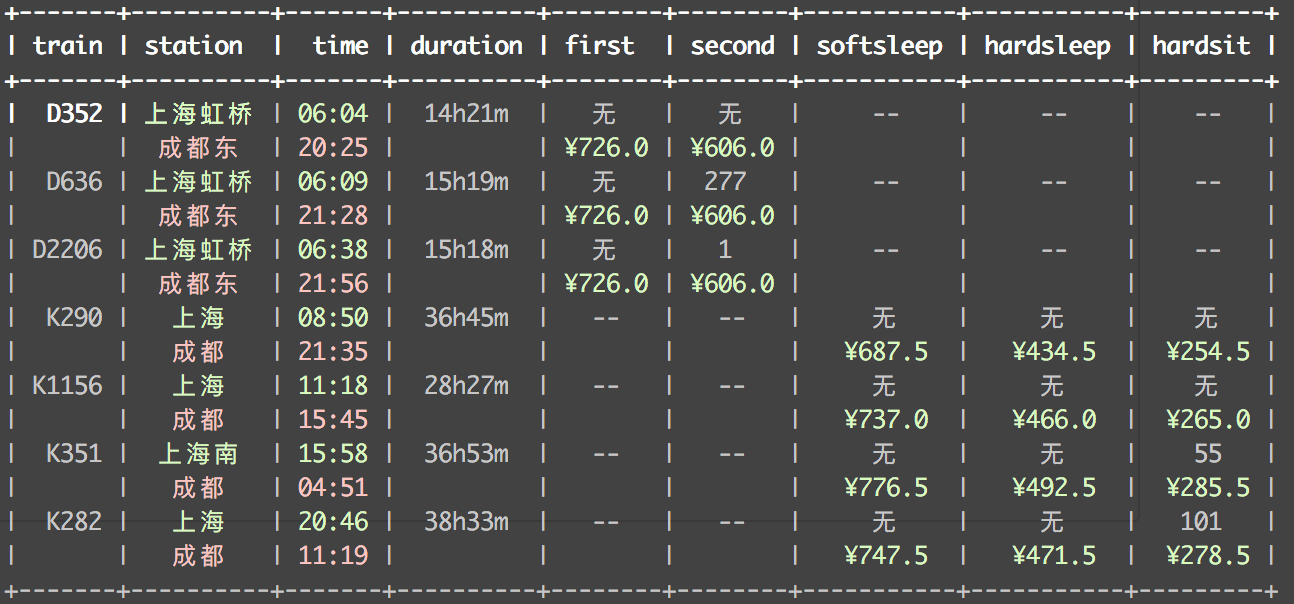
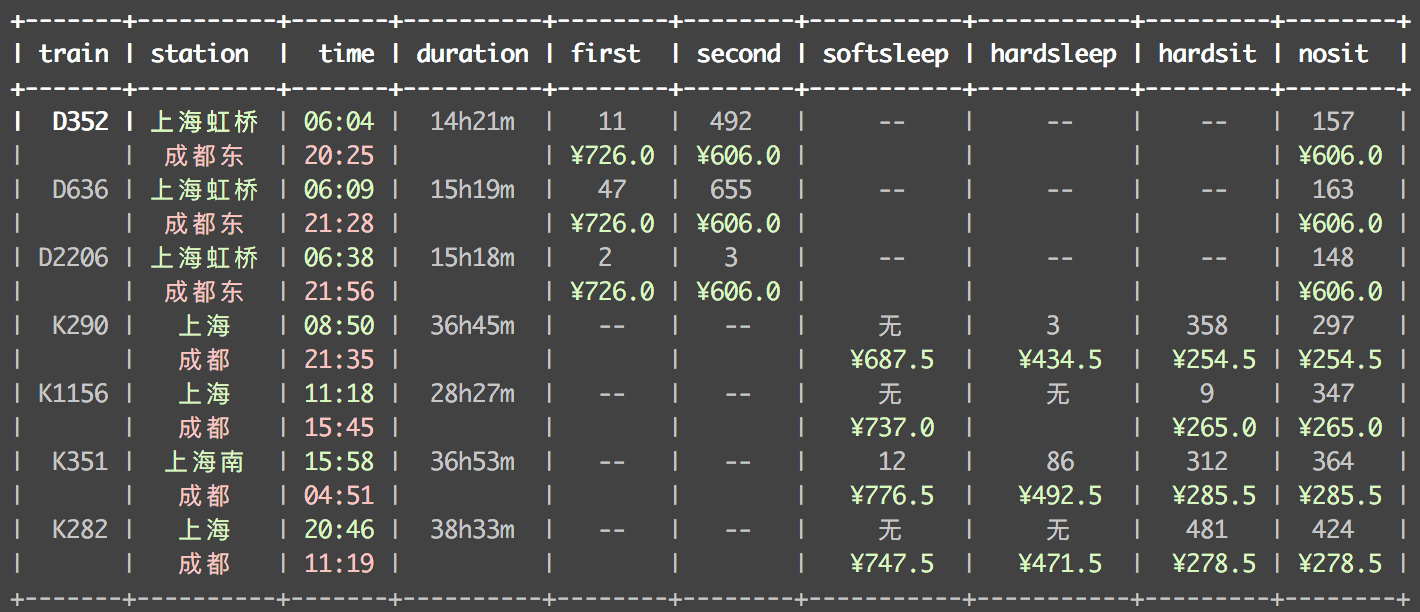
add nosit info

diff --git a/12306/tickets.py b/12306/tickets.py
@@ -2,15 +2,10 @@
 """Train tickets query via command-line.
 
 Usage:
-    tickets [-gdtkz] <from> <to> <date>
+    tickets <from> <to> <date>
 
 Options:
     -h,--help   显示帮助菜单
-    -g          高铁
-    -d          动车
-    -t          特快
-    -k          快速
-    -z          直达
 
 Example:
     tickets beijing shanghai 2016-08-25
@@ -36,7 +31,7 @@ def colored(color, text):
 class TrainCollection(object):
 
     # 显示车次、出发/到达站、 出发/到达时间、历时、一等坐、二等坐、软卧、硬卧、硬座
-    header = 'train station time duration first second softsleep hardsleep hardsit'.split()
+    header = 'train station time duration first second softsleep hardsleep hardsit nosit'.split()
 
     def __init__(self, rows):
         self.rows = rows
@@ -79,7 +74,9 @@ class TrainCollection(object):
                 # 硬卧
                 self.formatPrint(row['yw_num'], pricerow[6]),
                 # 硬坐
-                self.formatPrint(row['yz_num'], pricerow[8])
+                self.formatPrint(row['yz_num'], pricerow[8]),
+                # 无坐
+                self.formatPrint(row['wz_num'], pricerow[9])
             ]
             yield train
 
@@ -106,7 +103,7 @@ def cli():
     url = 'https://kyfw.12306.cn/otn/lcxxcx/query?purpose_codes=ADULT&queryDate={}&from_station={}&to_station={}'.format(
         date, from_station, to_station
     )
-    print(url)
+    #print(url)
     r = requests.get(url, verify=False)
     rows = r.json()['data']['datas']
     #print(r.json())
